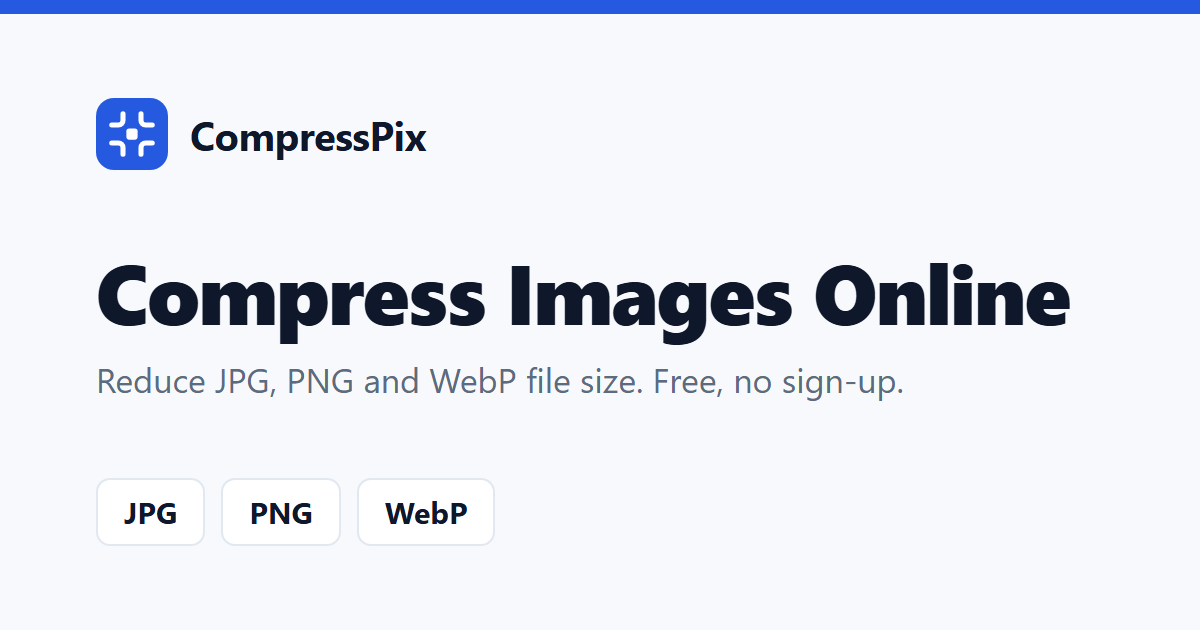
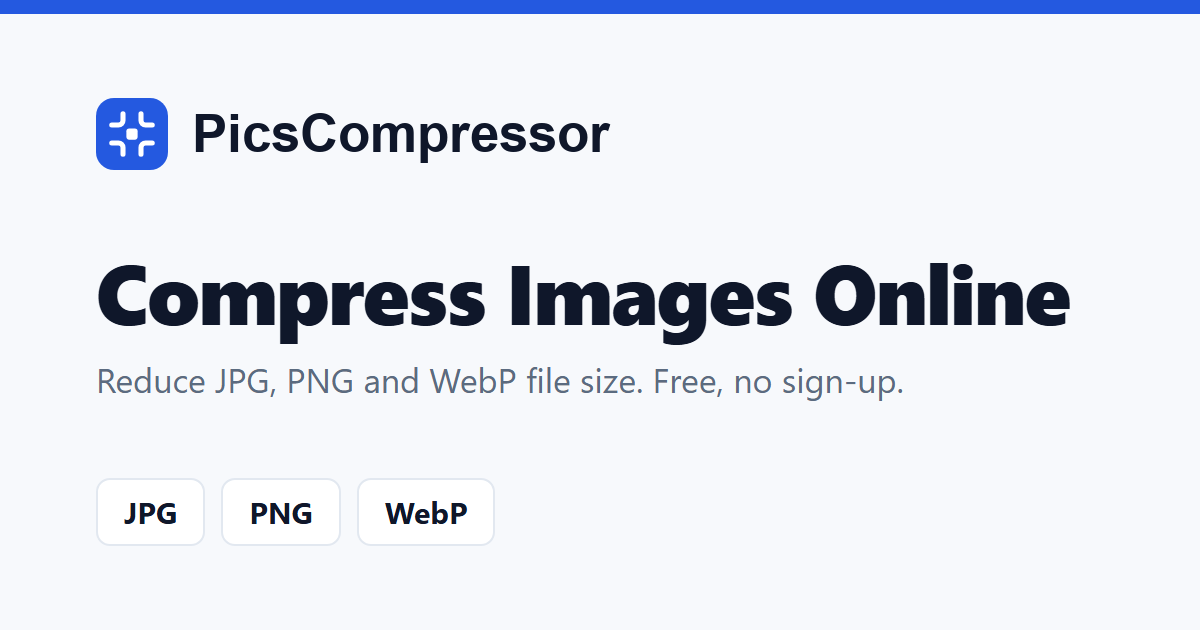
refactor: rename brand to PicsCompressor and implement secret admin login path
This commit performs a comprehensive rebranding from "CompressPix" to "PicsCompressor" across the entire codebase, including configuration, UI text, SEO metadata, documentation, and assets.

Additionally, it enhances security by:
- Implementing a configurable secret path for the admin login page via `ADMIN_LOGIN_PATH`.
- Changing the default behavior for unauthenticated guests attempting to access the admin area from a redirect to a 404 Not Found, preventing path enumeration.
- Updating robots middleware to respect the custom admin login path.

Summary of changes:
- Updated `.env.example`, `config/site.php`, and `README.md` with new brand and admin configuration.
- Replaced all instances of "CompressPix" with "PicsCompressor" in controllers, views, command output, and content files.
- Updated brand assets (SVG and PNG).
- Refactored `routes/admin.php` to support the custom login path.
- Updated feature tests to reflect the new branding and security behavior.

Changed region(s): [[0.1542, 0.181, 0.5242, 0.2714]]

diff --git a/app/Console/Commands/GenerateExampleImages.php b/app/Console/Commands/GenerateExampleImages.php
@@ -131,7 +131,7 @@ class GenerateExampleImages extends Command
 
         $this->save('quality-size-curve', $canvas,
             'Line chart of file size against quality setting for JPG and WebP versions of the same 1600 × 1067 test photo',
-            sprintf('Measured with the CompressPix server encoder (PHP GD). At quality 80 the JPG is %s and the WebP %s; at quality 100 the JPG grows to %s. File size rises steeply above about 90.',
+            sprintf('Measured with the PicsCompressor server encoder (PHP GD). At quality 80 the JPG is %s and the WebP %s; at quality 100 the JPG grows to %s. File size rises steeply above about 90.',
                 $this->bytes($jpg[80]), $this->bytes($webp[80]), $this->bytes($jpg[100])));
     }
 
@@ -154,7 +154,7 @@ class GenerateExampleImages extends Command
 
         $this->save('jpg-quality-ladder', $canvas,
             'Four enlarged crops of the same photo saved as JPG at quality 90, 70, 40 and 15, with blocking and colour smearing visible at low quality',
-            sprintf('Whole-image JPG sizes: quality 90 = %s, 70 = %s, 40 = %s, 15 = %s. Measured with the CompressPix server encoder; enlarged 2× so artifacts are visible.',
+            sprintf('Whole-image JPG sizes: quality 90 = %s, 70 = %s, 40 = %s, 15 = %s. Measured with the PicsCompressor server encoder; enlarged 2× so artifacts are visible.',
                 $this->bytes($sizes[90]), $this->bytes($sizes[70]), $this->bytes($sizes[40]), $this->bytes($sizes[15])));
     }
 
@@ -196,7 +196,7 @@ class GenerateExampleImages extends Command
 
         $this->save('jpg-vs-webp-equal-size', $canvas,
             'Side-by-side enlarged crops of a JPG and a WebP of the same photo at almost the same file size',
-            sprintf('JPG at quality 60 is %s. The highest WebP quality that fits the same size is %d (%s). Crops enlarged 2×; measured with the CompressPix server encoders.',
+            sprintf('JPG at quality 60 is %s. The highest WebP quality that fits the same size is %d (%s). Crops enlarged 2×; measured with the PicsCompressor server encoders.',
                 $this->bytes($jpg->size()), $webpQuality, $this->bytes(strlen($webp))));
     }
 
@@ -281,7 +281,7 @@ class GenerateExampleImages extends Command
 
         $this->save('png-to-webp-transparency', $canvas,
             'A product cut-out PNG with a soft transparent shadow next to the WebP version, which keeps the same transparency',
-            sprintf('The PNG with transparency is %s; the WebP at quality 80 is %s and keeps the transparent background and soft shadow. Measured with the CompressPix server encoder.',
+            sprintf('The PNG with transparency is %s; the WebP at quality 80 is %s and keeps the transparent background and soft shadow. Measured with the PicsCompressor server encoder.',
                 $this->bytes($png), $this->bytes($webp->size())));
     }
 
@@ -466,7 +466,7 @@ class GenerateExampleImages extends Command
         }
 
         $this->save($key, $canvas, $alt, sprintf(
-            'A %d × %d %s (%s) compressed with a %s target: %s at %d × %d pixels, JPG quality %d%s. Measured with the CompressPix server compressor, which uses the same quality-then-resize approach as the in-browser tool.',
+            'A %d × %d %s (%s) compressed with a %s target: %s at %d × %d pixels, JPG quality %d%s. Measured with the PicsCompressor server compressor, which uses the same quality-then-resize approach as the in-browser tool.',
             $sourceWidth, $sourceHeight, $subject, $this->bytes($originalBytes), $targetLabel, $this->bytes($result->size()), $result->width, $result->height, $result->quality,
             $result->resized ? ', after the dimensions were reduced' : ', without resizing',
         ));
@@ -550,7 +550,7 @@ class GenerateExampleImages extends Command
         }
 
         imagefilledrectangle($image, (int) (1040 * $s), (int) (470 * $s), (int) (1500 * $s), (int) (560 * $s), $this->rgb($image, 255, 255, 255));
-        imagettftext($image, 30 * $s, 0, (int) (1062 * $s), (int) (528 * $s), $this->rgb($image, 20, 30, 50), $this->boldFont, 'CompressPix test photo');
+        imagettftext($image, 30 * $s, 0, (int) (1062 * $s), (int) (528 * $s), $this->rgb($image, 20, 30, 50), $this->boldFont, 'PicsCompressor test photo');
 
         for ($i = 0, $count = (int) ($width * $height / 45); $i < $count; $i++) {
             $x = mt_rand(0, $width - 1);

diff --git a/resources/content/tool-content/image-compressor.php b/resources/content/tool-content/image-compressor.php
@@ -14,7 +14,7 @@ return [
     // Summary box and its example figure (also the page's social share image unless one is uploaded).
     'summary' => ['type' => 'textarea', 'value' => 'To compress an image, upload a JPG, PNG or WebP file, keep the quality around 80% or choose a target size such as 100 KB, then download the result. JPG compression runs in your browser, PNG keeps transparency, and dimensions change only when a target size cannot be met otherwise.'],
     'figure_alt' => ['type' => 'textarea', 'value' => 'Line chart of file size against quality setting for JPG and WebP versions of the same 1600 × 1067 test photo'],
-    'figure_caption' => ['type' => 'textarea', 'value' => 'Measured with the CompressPix server encoder (PHP GD). At quality 80 the JPG is 168 KB and the WebP 112 KB; at quality 100 the JPG grows to 934 KB. File size rises steeply above about 90.'],
+    'figure_caption' => ['type' => 'textarea', 'value' => 'Measured with the PicsCompressor server encoder (PHP GD). At quality 80 the JPG is 168 KB and the WebP 112 KB; at quality 100 the JPG grows to 934 KB. File size rises steeply above about 90.'],
 
     // Tool card text used in "All tools" grids and the footer.
     'card_description' => ['type' => 'textarea', 'value' => 'Compress JPG, PNG and WebP images by quality or to a target size.'],
@@ -89,7 +89,7 @@ HTML],
 <p>JPG output is always encoded by your browser, so the photo is not uploaded.</p>
 HTML],
     'jpg_figure_alt' => ['type' => 'textarea', 'value' => 'Four enlarged crops of the same photo saved as JPG at quality 90, 70, 40 and 15, with blocking and colour smearing visible at low quality'],
-    'jpg_figure_caption' => ['type' => 'textarea', 'value' => 'Whole-image JPG sizes: quality 90 = 277 KB, 70 = 126 KB, 40 = 74.4 KB, 15 = 38.2 KB. Measured with the CompressPix server encoder; enlarged 2× so artifacts are visible.'],
+    'jpg_figure_caption' => ['type' => 'textarea', 'value' => 'Whole-image JPG sizes: quality 90 = 277 KB, 70 = 126 KB, 40 = 74.4 KB, 15 = 38.2 KB. Measured with the PicsCompressor server encoder; enlarged 2× so artifacts are visible.'],
 
     'png_heading' => 'Compress PNG images and keep transparency',
     'png_body' => ['type' => 'html', 'value' => <<<'HTML'
@@ -139,7 +139,7 @@ HTML],
 <p>For small targets, cropping away empty space helps more than lowering quality. Scanned documents stay readable only at reasonable dimensions, so check text at 100% zoom.</p>
 HTML],
     'target_figure_alt' => ['type' => 'textarea', 'value' => 'A 12-megapixel landscape test photo compressed with a 100 KB target, shown with its measured size, dimensions and quality'],
-    'target_figure_caption' => ['type' => 'textarea', 'value' => 'A 4000 × 3000 photo (2.61 MB) compressed with a 100 KB target: 93.9 KB at 3142 × 2356 pixels, JPG quality 10, after the dimensions were reduced. Measured with the CompressPix server compressor, which uses the same quality-then-resize approach as the in-browser tool.'],
+    'target_figure_caption' => ['type' => 'textarea', 'value' => 'A 4000 × 3000 photo (2.61 MB) compressed with a 100 KB target: 93.9 KB at 3142 × 2356 pixels, JPG quality 10, after the dimensions were reduced. Measured with the PicsCompressor server compressor, which uses the same quality-then-resize approach as the in-browser tool.'],
 
     'formats_heading' => 'Supported formats and limits',
     'formats_description' => 'What you can upload, what you can download, and where each image is processed.',

diff --git a/app/Http/Controllers/PageController.php b/app/Http/Controllers/PageController.php
@@ -12,19 +12,19 @@ class PageController extends Controller
     public const LEGAL_PAGES = [
         'privacy-policy' => [
             'title' => 'Privacy Policy',
-            'description' => 'How CompressPix handles your images, contact messages, cookies and log data, including when images are processed in your browser or on our server.',
+            'description' => 'How PicsCompressor handles your images, contact messages, cookies and log data, including when images are processed in your browser or on our server.',
         ],
         'terms-and-conditions' => [
             'title' => 'Terms & Conditions',
-            'description' => 'The terms for using CompressPix\'s free online image compression tools, including acceptable use, your content and limitations of liability.',
+            'description' => 'The terms for using PicsCompressor\'s free online image compression tools, including acceptable use, your content and limitations of liability.',
         ],
         'cookie-policy' => [
             'title' => 'Cookie Policy',
-            'description' => 'Which cookies the CompressPix image compressor website uses, why each one is needed, how long they last and how you can manage them.',
+            'description' => 'Which cookies the PicsCompressor image compressor website uses, why each one is needed, how long they last and how you can manage them.',
         ],
         'disclaimer' => [
             'title' => 'Disclaimer',
-            'description' => 'Important limits of the CompressPix image compression tools: approximate target sizes, quality loss, results that vary by image and general information.',
+            'description' => 'Important limits of the PicsCompressor image compression tools: approximate target sizes, quality loss, results that vary by image and general information.',
         ],
     ];
 
@@ -32,8 +32,8 @@ class PageController extends Controller
     {
         return view('pages.about', [
             'seo' => $this->seo(
-                'About CompressPix: Who Builds It and How It Works',
-                'Who operates CompressPix, how the free image compressor works in your browser and on our server, how we test results and how to contact us.',
+                'About PicsCompressor: Who Builds It and How It Works',
+                'Who operates PicsCompressor, how the free image compressor works in your browser and on our server, how we test results and how to contact us.',
                 'pages.about',
             )->asPage('AboutPage', StructuredData::organizationId()),
             'relatedTools' => $tools->all(),
@@ -45,7 +45,7 @@ class PageController extends Controller
         return view('pages.editorial-policy', [
             'seo' => $this->seo(
                 'Editorial Policy: How We Write and Check Our Pages',
-                'How CompressPix researches, tests, reviews and updates its tool pages and help content, and how to report a mistake.',
+                'How PicsCompressor researches, tests, reviews and updates its tool pages and help content, and how to report a mistake.',
                 'pages.editorial',
             ),
         ]);

diff --git a/tests/Feature/AdminAuthTest.php b/tests/Feature/AdminAuthTest.php
@@ -14,22 +14,24 @@ class AdminAuthTest extends TestCase
     {
         config(['site.indexable' => true]);
 
-        $this->get('/admin/login')
+        $this->get('/jhasseaidsha12')
             ->assertOk()
             ->assertSee('name="_token"', false)
             ->assertHeader('X-Robots-Tag', 'noindex, nofollow');
     }
 
-    public function test_guest_is_redirected_to_login(): void
+    public function test_the_admin_area_and_the_old_login_path_are_hidden_from_guests(): void
     {
-        $this->get('/admin')->assertRedirect('/admin/login');
+        $this->get('/admin')->assertNotFound();
+        $this->get('/admin/tools')->assertNotFound();
+        $this->get('/admin/login')->assertNotFound();
     }
 
     public function test_admin_can_log_in(): void
     {
         $admin = User::factory()->admin()->create();
 
-        $this->post('/admin/login', ['email' => $admin->email, 'password' => 'password'])
+        $this->post('/jhasseaidsha12', ['email' => $admin->email, 'password' => 'password'])
             ->assertRedirect('/admin');
 
         $this->assertAuthenticatedAs($admin);
@@ -39,7 +41,7 @@ class AdminAuthTest extends TestCase
     {
         $admin = User::factory()->admin()->create();
 
-        $this->post('/admin/login', ['email' => $admin->email, 'password' => 'wrong-password'])
+        $this->post('/jhasseaidsha12', ['email' => $admin->email, 'password' => 'wrong-password'])
             ->assertSessionHasErrors(['email' => 'These credentials do not match an admin account.']);
 
         $this->assertGuest();
@@ -49,7 +51,7 @@ class AdminAuthTest extends TestCase
     {
         $user = User::factory()->create();
 
-        $this->post('/admin/login', ['email' => $user->email, 'password' => 'password'])
+        $this->post('/jhasseaidsha12', ['email' => $user->email, 'password' => 'password'])
             ->assertSessionHasErrors('email');
 
         $this->assertGuest();
@@ -65,10 +67,10 @@ class AdminAuthTest extends TestCase
         $admin = User::factory()->admin()->create();
 
         for ($i = 0; $i < 5; $i++) {
-            $this->post('/admin/login', ['email' => $admin->email, 'password' => 'wrong-password']);
+            $this->post('/jhasseaidsha12', ['email' => $admin->email, 'password' => 'wrong-password']);
         }
 
-        $this->post('/admin/login', ['email' => $admin->email, 'password' => 'password'])
+        $this->post('/jhasseaidsha12', ['email' => $admin->email, 'password' => 'password'])
             ->assertSessionHasErrors('email');
 
         $this->assertStringStartsWith('Too many sign-in attempts.', session('errors')->first('email'));
@@ -79,7 +81,7 @@ class AdminAuthTest extends TestCase
     {
         $this->actingAs(User::factory()->admin()->create())
             ->post('/admin/logout')
-            ->assertRedirect('/admin/login');
+            ->assertRedirect('/jhasseaidsha12');
 
         $this->assertGuest();
     }

diff --git a/config/site.php b/config/site.php
@@ -2,13 +2,21 @@
 
 return [
 
-    'brand' => env('SITE_BRAND', 'CompressPix'),
+    'brand' => env('SITE_BRAND', 'PicsCompressor'),
 
     'tagline' => env('SITE_TAGLINE', 'Free online image compressor'),
 
-    'description' => 'CompressPix is a free, browser-based image compressor for JPG, PNG and WebP. Reduce file size, hit a target size such as 100KB, convert formats and compare before and after.',
+    'description' => 'PicsCompressor is a free, browser-based image compressor for JPG, PNG and WebP. Reduce file size, hit a target size such as 100KB, convert formats and compare before and after.',
 
     'url' => rtrim(env('APP_URL', 'http://localhost'), '/'),
+
+    /*
+    | Secret path for the admin sign-in page, so the login form is not sitting
+    | at a guessable URL. Everything else stays under /admin, which guests get
+    | a 404 for. Change it here or with ADMIN_LOGIN_PATH.
+    */
+
+    'admin_login_path' => trim(env('ADMIN_LOGIN_PATH', 'jhasseaidsha12'), '/'),
 
     /*
     |--------------------------------------------------------------------------
@@ -22,7 +30,7 @@ return [
     |
     */
 
-    'company_name' => env('SITE_COMPANY_NAME', 'CompressPix'),
+    'company_name' => env('SITE_COMPANY_NAME', 'PicsCompressor'),
 
     'country' => env('SITE_COUNTRY'),
 

diff --git a/resources/content/tool-content/png-to-webp.php b/resources/content/tool-content/png-to-webp.php
@@ -14,7 +14,7 @@ return [
     // Summary box and its example figure (also the page's social share image unless one is uploaded).
     'summary' => ['type' => 'textarea', 'value' => 'Upload your PNG, keep the output format set to WebP, choose a quality around 80% and check the edges in the comparison slider, then download the .webp file. Transparency is kept, but the output is lossy WebP, so fine edges and small text can soften slightly.'],
     'figure_alt' => ['type' => 'textarea', 'value' => 'A product cut-out PNG with a soft transparent shadow next to the WebP version, which keeps the same transparency'],
-    'figure_caption' => ['type' => 'textarea', 'value' => 'The PNG with transparency is 15.3 KB; the WebP at quality 80 is 8.7 KB and keeps the transparent background and soft shadow. Measured with the CompressPix server encoder.'],
+    'figure_caption' => ['type' => 'textarea', 'value' => 'The PNG with transparency is 15.3 KB; the WebP at quality 80 is 8.7 KB and keeps the transparent background and soft shadow. Measured with the PicsCompressor server encoder.'],
 
     // Tool card text used in "All tools" grids.
     'card_description' => ['type' => 'textarea', 'value' => 'Convert PNG to WebP and keep transparent backgrounds.'],

diff --git a/tests/Feature/PublicPagesTest.php b/tests/Feature/PublicPagesTest.php
@@ -80,7 +80,7 @@ class PublicPagesTest extends TestCase
         $this->get('/tools/png-to-jpg')
             ->assertOk()
             ->assertSee('"@type":"WebApplication"', false)
-            ->assertSee('"name":"CompressPix PNG to JPG Converter"', false)
+            ->assertSee('"name":"PicsCompressor PNG to JPG Converter"', false)
             ->assertSee('"output":"image\/jpeg"', false)
             ->assertSee('<figure', false)
             ->assertSee('Short answer');
@@ -172,7 +172,7 @@ class PublicPagesTest extends TestCase
     {
         $this->get('/llms.txt')
             ->assertOk()
-            ->assertSee('# CompressPix')
+            ->assertSee('# PicsCompressor')
             ->assertSee(url('/tools/png-to-jpg'))
             ->assertSee(url('/faq'))
             ->assertDontSee('/blog');
@@ -231,6 +231,7 @@ class PublicPagesTest extends TestCase
 
     public function test_admin_area_is_not_publicly_accessible(): void
     {
-        $this->get('/admin')->assertRedirect('/admin/login');
+        $this->get('/admin')->assertNotFound();
+        $this->get('/admin/login')->assertNotFound();
     }
 }

diff --git a/routes/admin.php b/routes/admin.php
@@ -6,12 +6,12 @@ use App\Http\Controllers\Admin\DashboardController;
 use App\Http\Controllers\Admin\ToolController;
 use Illuminate\Support\Facades\Route;
 
-Route::prefix('admin')->name('admin.')->group(function () {
-    Route::middleware('guest')->group(function () {
-        Route::get('login', [AuthenticatedSessionController::class, 'create'])->name('login');
-        Route::post('login', [AuthenticatedSessionController::class, 'store'])->name('login.store');
-    });
+Route::middleware('guest')->group(function () {
+    Route::get(config('site.admin_login_path'), [AuthenticatedSessionController::class, 'create'])->name('admin.login');
+    Route::post(config('site.admin_login_path'), [AuthenticatedSessionController::class, 'store'])->name('admin.login.store');
+});
 
+Route::prefix('admin')->name('admin.')->group(function () {
     Route::middleware(['auth', 'admin'])->group(function () {
         Route::get('/', DashboardController::class)->name('dashboard');
         Route::post('logout', [AuthenticatedSessionController::class, 'destroy'])->name('logout');

diff --git a/app/Http/Controllers/ContactController.php b/app/Http/Controllers/ContactController.php
@@ -16,7 +16,7 @@ class ContactController extends Controller
 {
     public function show(): View
     {
-        $seo = Seo::make('Contact CompressPix', 'Contact the CompressPix team about the free online image compressor: report a bug, suggest a feature or ask a privacy question.')
+        $seo = Seo::make('Contact PicsCompressor', 'Contact the PicsCompressor team about the free online image compressor: report a bug, suggest a feature or ask a privacy question.')
             ->withBreadcrumbs($this->breadcrumbs(['Contact Us' => route('pages.contact')]))
             ->asPage('ContactPage');
         $seo->canonical = route('pages.contact');
@@ -43,6 +43,6 @@ class ContactController extends Controller
         }
 
         return to_route('pages.contact')
-            ->with('status', 'Thank you for your message. It has been received and will be read by the CompressPix team.');
+            ->with('status', 'Thank you for your message. It has been received and will be read by the PicsCompressor team.');
     }
 }

diff --git a/bootstrap/app.php b/bootstrap/app.php
@@ -22,7 +22,8 @@ return Application::configure(basePath: dirname(__DIR__))
         $middleware->web(append: [SecurityHeaders::class]);
         $middleware->append(RobotsHeaders::class);
         $middleware->alias(['admin' => EnsureUserIsAdmin::class]);
-        $middleware->redirectGuestsTo(fn () => route('admin.login'));
+        // Guests get a 404 for the admin area rather than a redirect, which would give away the sign-in path.
+        $middleware->redirectGuestsTo(fn () => abort(404));
         $middleware->redirectUsersTo(fn () => route('admin.dashboard'));
     })
     ->withExceptions(function (Exceptions $exceptions): void {

diff --git a/app/Http/Middleware/RobotsHeaders.php b/app/Http/Middleware/RobotsHeaders.php
@@ -21,7 +21,7 @@ class RobotsHeaders
 
         if (! config('site.indexable')) {
             $response->headers->set('X-Robots-Tag', 'noindex, nofollow');
-        } elseif ($request->is('admin', 'admin/*')) {
+        } elseif ($request->is('admin', 'admin/*', config('site.admin_login_path'))) {
             $response->headers->set('X-Robots-Tag', 'noindex, nofollow');
         } elseif ($request->is('up', 'process/*', 'storage/*')) {
             $response->headers->set('X-Robots-Tag', 'noindex');

diff --git a/app/Tools/ToolPage.php b/app/Tools/ToolPage.php
@@ -135,7 +135,7 @@ final readonly class ToolPage
     }
 
     /**
-     * The entity name used in structured data, e.g. "CompressPix JPG Compressor".
+     * The entity name used in structured data, e.g. "PicsCompressor JPG Compressor".
      */
     public function entityName(): string
     {
